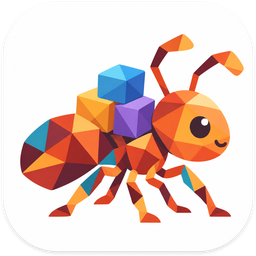
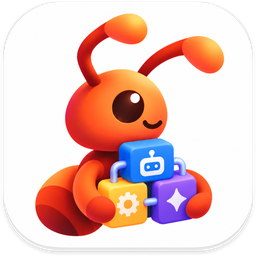
docs: show more of the app in the README, with fresh screenshots
The README now walks through reservations, the check before review
and the review decision, translation, commit messages, plugins,
to-dos, the terminal and ports, task dependencies, concurrency and
skills, each with a screenshot, in both languages. The overview
screenshot and the icon are redrawn for the current app.

diff --git a/README.en.md b/README.en.md
@@ -1,6 +1,6 @@
 <div align="center">
 
-<img src="docs/assets/icon.png" alt="Antumi icon: a low-poly ant carrying colourful blocks" width="128" height="128" />
+<img src="docs/assets/icon.png" alt="Antumi icon: a little ant holding three agent blocks" width="128" height="128" />
 
 # Antumi
 
@@ -48,9 +48,9 @@ Antumi manages conversations, collaboration, execution and results across agents
 
 ### Overview: what needs you comes first
 
-Everything waiting for your confirmation, your answer or your review in one place, with the next scheduled runs beside it. "Handle" jumps straight to that step.
+Everything waiting for your confirmation, your answer or your review in one place, the todos agents noted below it, and beside them what comes next: scheduled runs, routines and tasks still waiting on a dependency. "Handle" jumps straight to that step.
 
-<img src="docs/assets/overview.png" alt="Overview: four items need you, one awaiting confirmation, one awaiting review and two waiting for a reply" width="100%" />
+<img src="docs/assets/overview.png" alt="Overview: four items need you (one awaiting review, three waiting for a reply), three pre-launch todos, and on the right two runs booked for 22:00 and 22:30 plus a task waiting on a dependency" width="100%" />
 
 ### Conversations: talk directly and hand off
 
@@ -72,19 +72,25 @@ Have Claude Code or Codex start a conversation every day, on weekdays or weekly 
 
 <img src="docs/assets/schedules.png" alt="The eight routine templates: daily code review, test health check, weekly report and more; the Scheduled tab is in the top right" width="100%" />
 
+<img src="docs/assets/reservations.png" alt="The Scheduled tab: a task booked for 22:00 and a chat message for 22:30, with controls to reorder, retime or run now" width="100%" />
+
 ### Squads
 
 Set up a leader and members, each with their own agent, model and role, and give a task to the squad. The leader reads the code, works out a plan and a split with you, and only dispatches once you approve: development runs in sequence, read-only analysis in parallel, all in the task's worktree.
 
 <img src="docs/assets/squads.png" alt="A squad: Claude Code as leader, Codex as developer, Claude Code as reviewer" width="100%" />
 
-### Review without opening a terminal
+### Review is a gate, not a glance at a diff
 
-The inspector lists every commit since the branch started and every file's additions, deletions and diff. Branches, fetch / pull / push / commit, merges and conflicts live here too. Leave the commit message empty and a small model writes one in the project's style. On redo, this attempt is kept on a `-tryN` branch and the task branch starts over.
+What happens after an agent says "done" is decided for you. If the project has a check command (say `npm test`), "Submit for review" runs it in the worktree first; a failure keeps the task out of review and hands the output straight back to the agent to fix.
 
-When a project has a check command configured, submitting an ordinary task for review runs it first. If it fails, the task stays in progress and the output goes back to the agent to fix. Squad tasks do not run this check yet.
+<img src="docs/assets/review-check.png" alt="The pre-review check failed: the failing test output goes back to the agent as a message, and the agent starts fixing todos.mjs" width="100%" />
 
-<img src="docs/assets/inspector.png" alt="The inspector's changes tab: 11 changed files and the diff of todos.mjs" width="100%" />
+A task in review gets one of three answers from you: **accept**, and it moves to done, unblocking the tasks that depend on it; **keep going**, by writing in the chat what is wrong, and the agent continues in the same session; **redo**, which parks this attempt on a `-tryN` branch, restarts the task branch from its base and tells the agent why.
+
+<img src="docs/assets/review-decision.png" alt="A task awaiting review: accept, redo and hand-off buttons under the title, the base branch and the review status on the right" width="100%" />
+
+You review the whole branch: the inspector lists every commit since the branch started and every file's additions, deletions and diff, however many rounds and commits the agent took. Fetch / pull / push / commit, merges and conflicts live there too, and an empty commit message is written by a small model in the project's style. Squad tasks skip the pre-review check for now.
 
 ### Fix two lines without switching to an IDE
 
@@ -112,11 +118,28 @@ An agent opens the page, clicks and types, switches to a phone viewport, takes s
 - **Quotas in plain sight**: the status bar and agent picker show usage and reset times for Claude Code, Codex and Cursor, with a choice of used or remaining percentages; Cursor shows monthly usage. Available reset credits and global reset announcements also appear here.
 - **No wasted waiting**: Claude Code and Codex sessions that hit a usage limit book their own retry for when the limit resets. Routines can pick "auto" and run on whichever agent has quota.
 
+<table>
+<tr>
+<td width="62%" valign="top">
+  <img src="docs/assets/translate.png" alt="The same English reply: after clicking Translate it reads in Chinese, and Original switches back; a small model does the translation" width="100%" /><br/>
+  <sub>Translation: one click turns an agent's reply into your language, and back</sub>
+</td>
+<td width="38%" valign="top">
+  <img src="docs/assets/commit-message.png" alt="The Commit dialog: after clicking Generate, a small model wrote the commit message from the diff; edit it before committing" width="100%" /><br/>
+  <sub>Commit messages: leave it empty, click Generate, review, commit</sub>
+</td>
+</tr>
+</table>
+
 <img src="docs/assets/savings.png" alt="The Stats tab: about $0.21 saved by small models, with tokens, cost and savings per use; the status bar shows each agent's 5-hour and weekly quota" width="100%" />
 
 ### Task sources
 
 Jira and GitHub issues and PRs sync into an inbox on a schedule. Import one as a task, or open a read-only investigation first and fix once you have agreed on an approach. The original text is quarantined as untrusted, so instructions inside it are never taken as yours. Sources are plugins; install new ones from a folder, a ZIP or a GitHub release.
+
+<p align="center">
+  <img src="docs/assets/plugins.png" alt="Settings → Plugins: install a source plugin from a folder, a ZIP or a GitHub release after ticking that you trust it; the GitHub source ships with Antumi" width="720" />
+</p>
 
 <details>
 <summary><b>And more</b></summary>
@@ -133,11 +156,44 @@ Jira and GitHub issues and PRs sync into an inbox on a schedule. Import one as a
 - **Concurrency limits**: cap how many agents run at once, overall and per agent; the rest queue.
 - **Knowledge base, skills, MCP**: attach Obsidian vaults as reference material, install and update Agent Skills, and manage your MCP servers in one place.
 
-<p align="center">
-  <img src="docs/assets/branches.png" alt="The inspector's branch tab: two commits on the task branch, growing from main" width="360" />
-  &nbsp;&nbsp;
-  <img src="docs/assets/worktrees.png" alt="Worktree management: the ones that can be cleaned and the ones still in use, listed apart" width="520" />
-</p>
+<table>
+<tr>
+<td width="50%" valign="top">
+  <img src="docs/assets/todos.png" alt="The inspector's Todos tab: a group named before launch, two items marked needs you and one marked agent can do" width="350" /><br/>
+  <sub>Todos: who does what, at a glance</sub>
+</td>
+<td width="50%" valign="top">
+  <img src="docs/assets/terminal-ports.png" alt="A dev server the agent started in the terminal panel; below it the ports panel lists port 4173 with its task, and buttons to open the page, jump to the terminal or stop it" width="420" /><br/>
+  <sub>Terminal and ports: who listens where, open or stop in one click</sub>
+</td>
+</tr>
+<tr>
+<td valign="top">
+  <img src="docs/assets/dependency.png" alt="A board card tagged waiting for dependency; only planning can start" width="252" /><br/>
+  <sub>Dependencies: plan now, run once the prerequisite passes review</sub>
+</td>
+<td valign="top">
+  <img src="docs/assets/branches.png" alt="The inspector's branch tab: two commits on the task branch, growing from main" width="355" /><br/>
+  <sub>Branch view: where the task branch grows from</sub>
+</td>
+</tr>
+<tr>
+<td valign="top">
+  <img src="docs/assets/worktrees.png" alt="Worktree management: the ones that can be cleaned and the ones still in use, listed apart" width="100%" /><br/>
+  <sub>Worktree cleanup: every one re-checked before it goes</sub>
+</td>
+<td valign="top">
+  <img src="docs/assets/concurrency.png" alt="Settings → Agents → Running: the total number of agents allowed at once and a cap per agent" width="100%" /><br/>
+  <sub>Concurrency limits: overall and per agent</sub>
+</td>
+</tr>
+<tr>
+<td colspan="2" valign="top">
+  <img src="docs/assets/skills.png" alt="Settings → Skills: the recommended Obsidian skills repository installs in one click, or paste any GitHub repository URL" width="100%" /><br/>
+  <sub>Skills: install Agent Skills from a Git repository, pinned to a commit and reversible</sub>
+</td>
+</tr>
+</table>
 
 </details>
 
@@ -250,7 +306,7 @@ Something feels off, or you want another agent supported? [Open an issue](https:
 
 **Antumi is a coined word inspired by "ant".** One ant is small; together they move things far bigger than themselves. Antumi brings different AI coding agents onto one workbench so work can move forward in parallel while progress and results stay visible.
 
-The mascot is a little ant: it carries blocks on the app icon, and in the app it hauls parcels while an agent works and stops when the agent is waiting for you.
+The mascot is a little ant: it holds three agent blocks on the app icon, and in the app it hauls parcels while an agent works and stops when the agent is waiting for you.
 
 ## License
 
